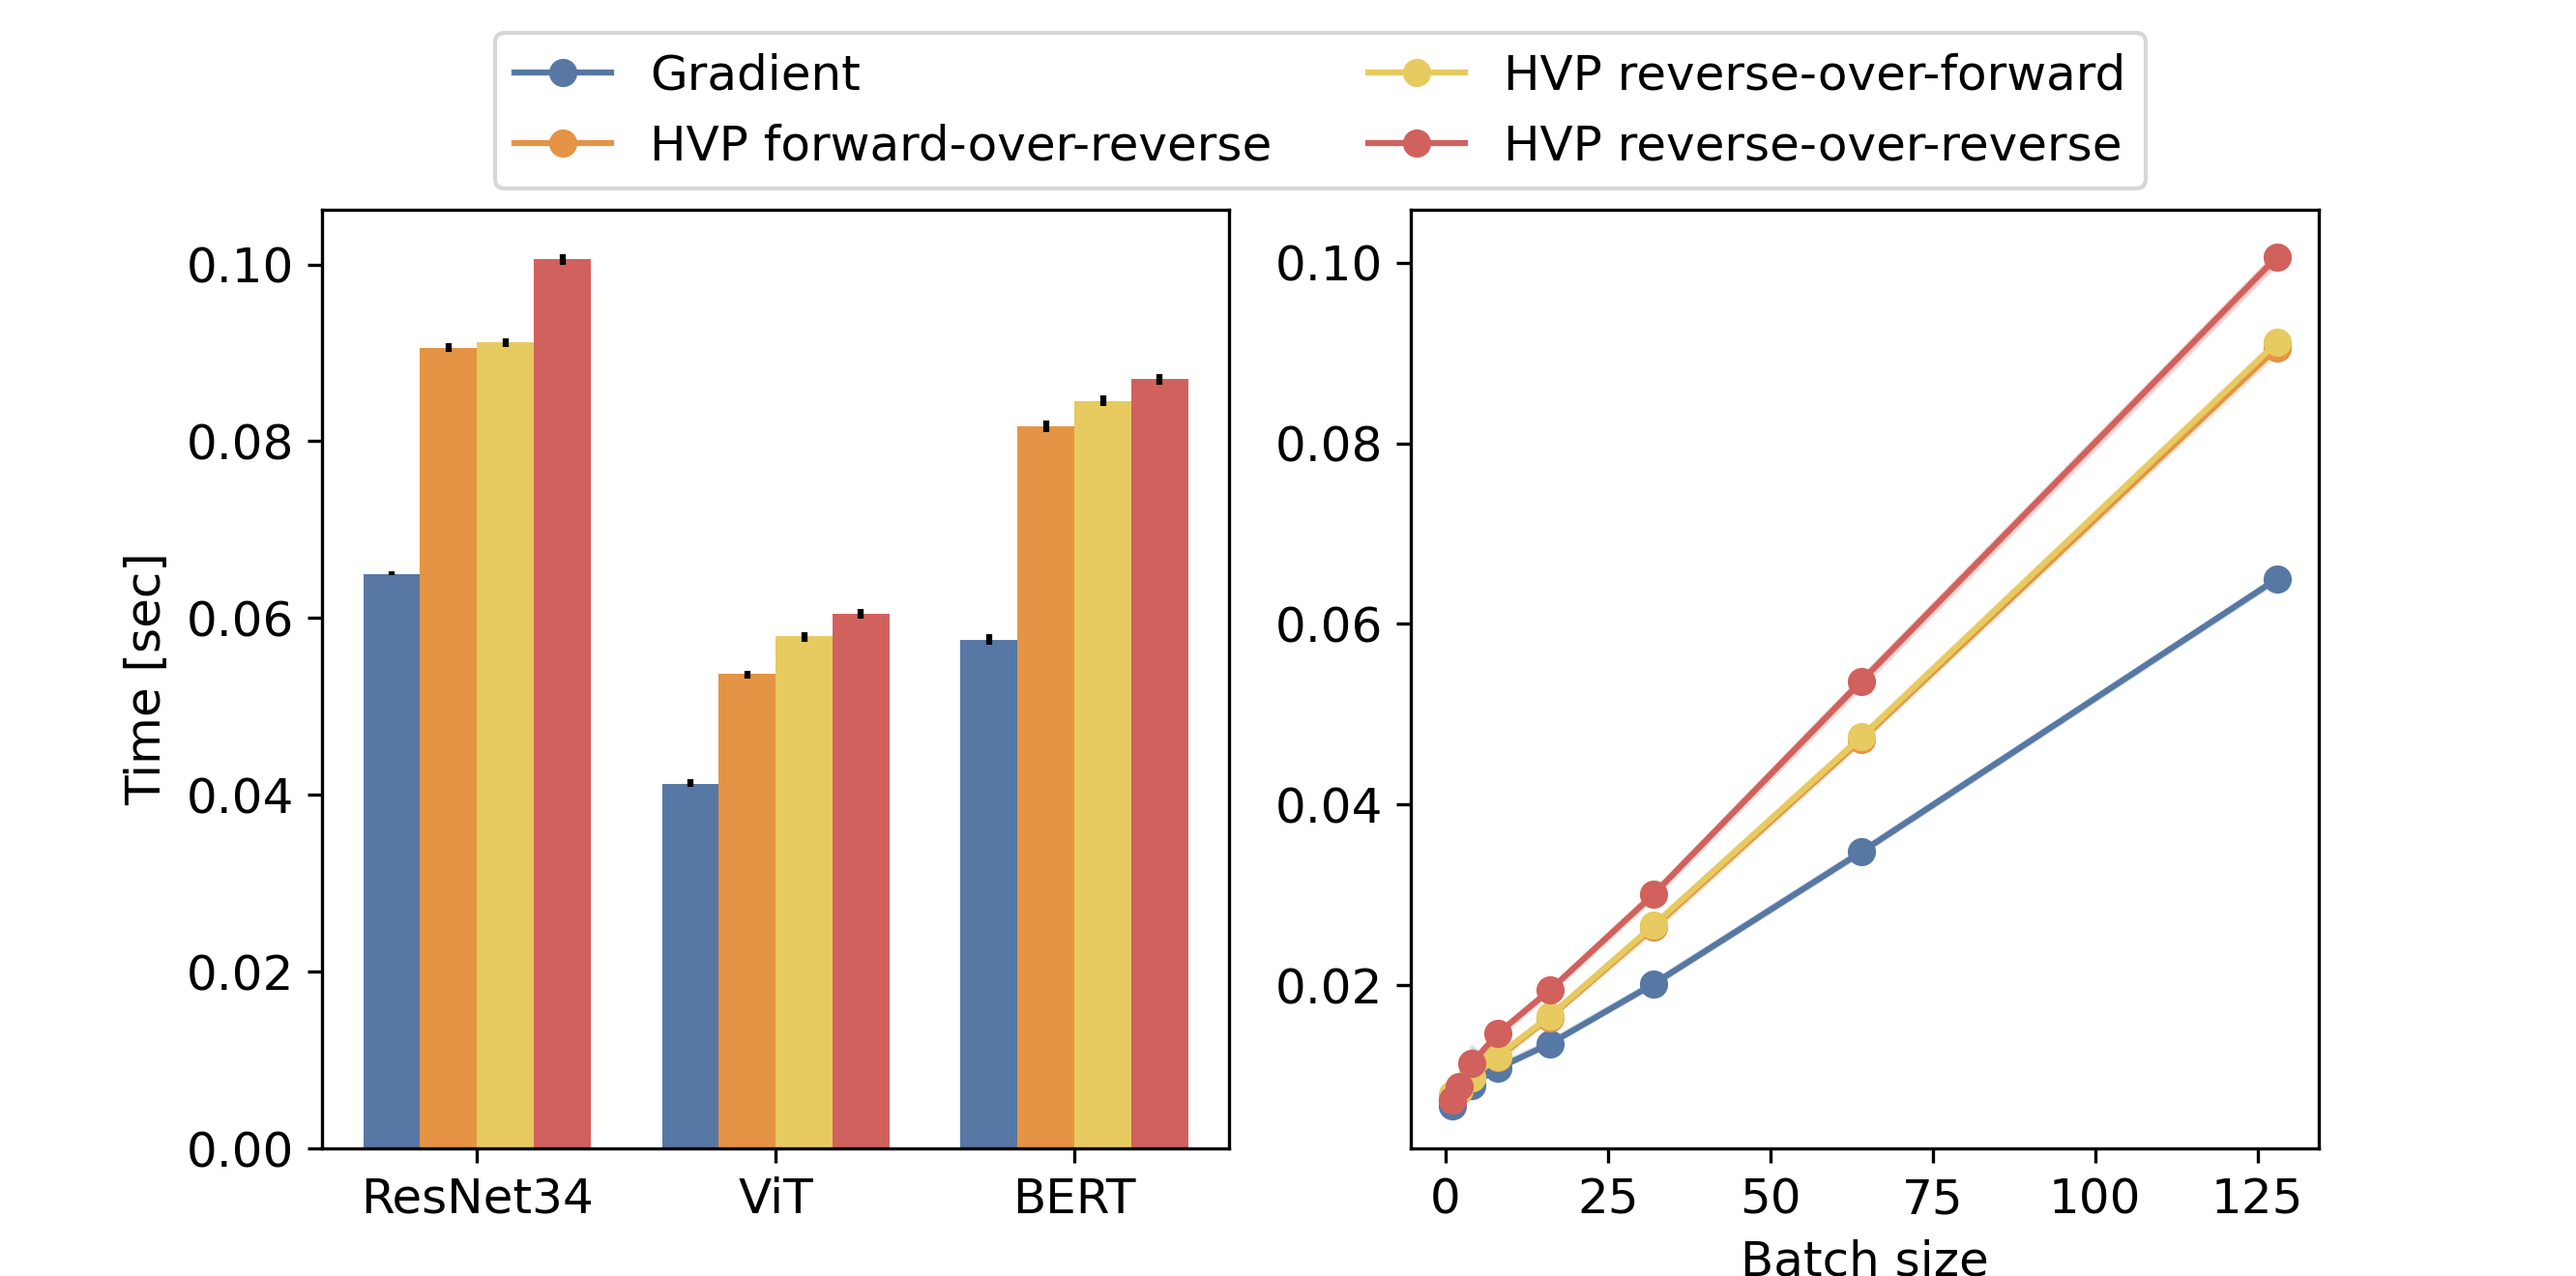
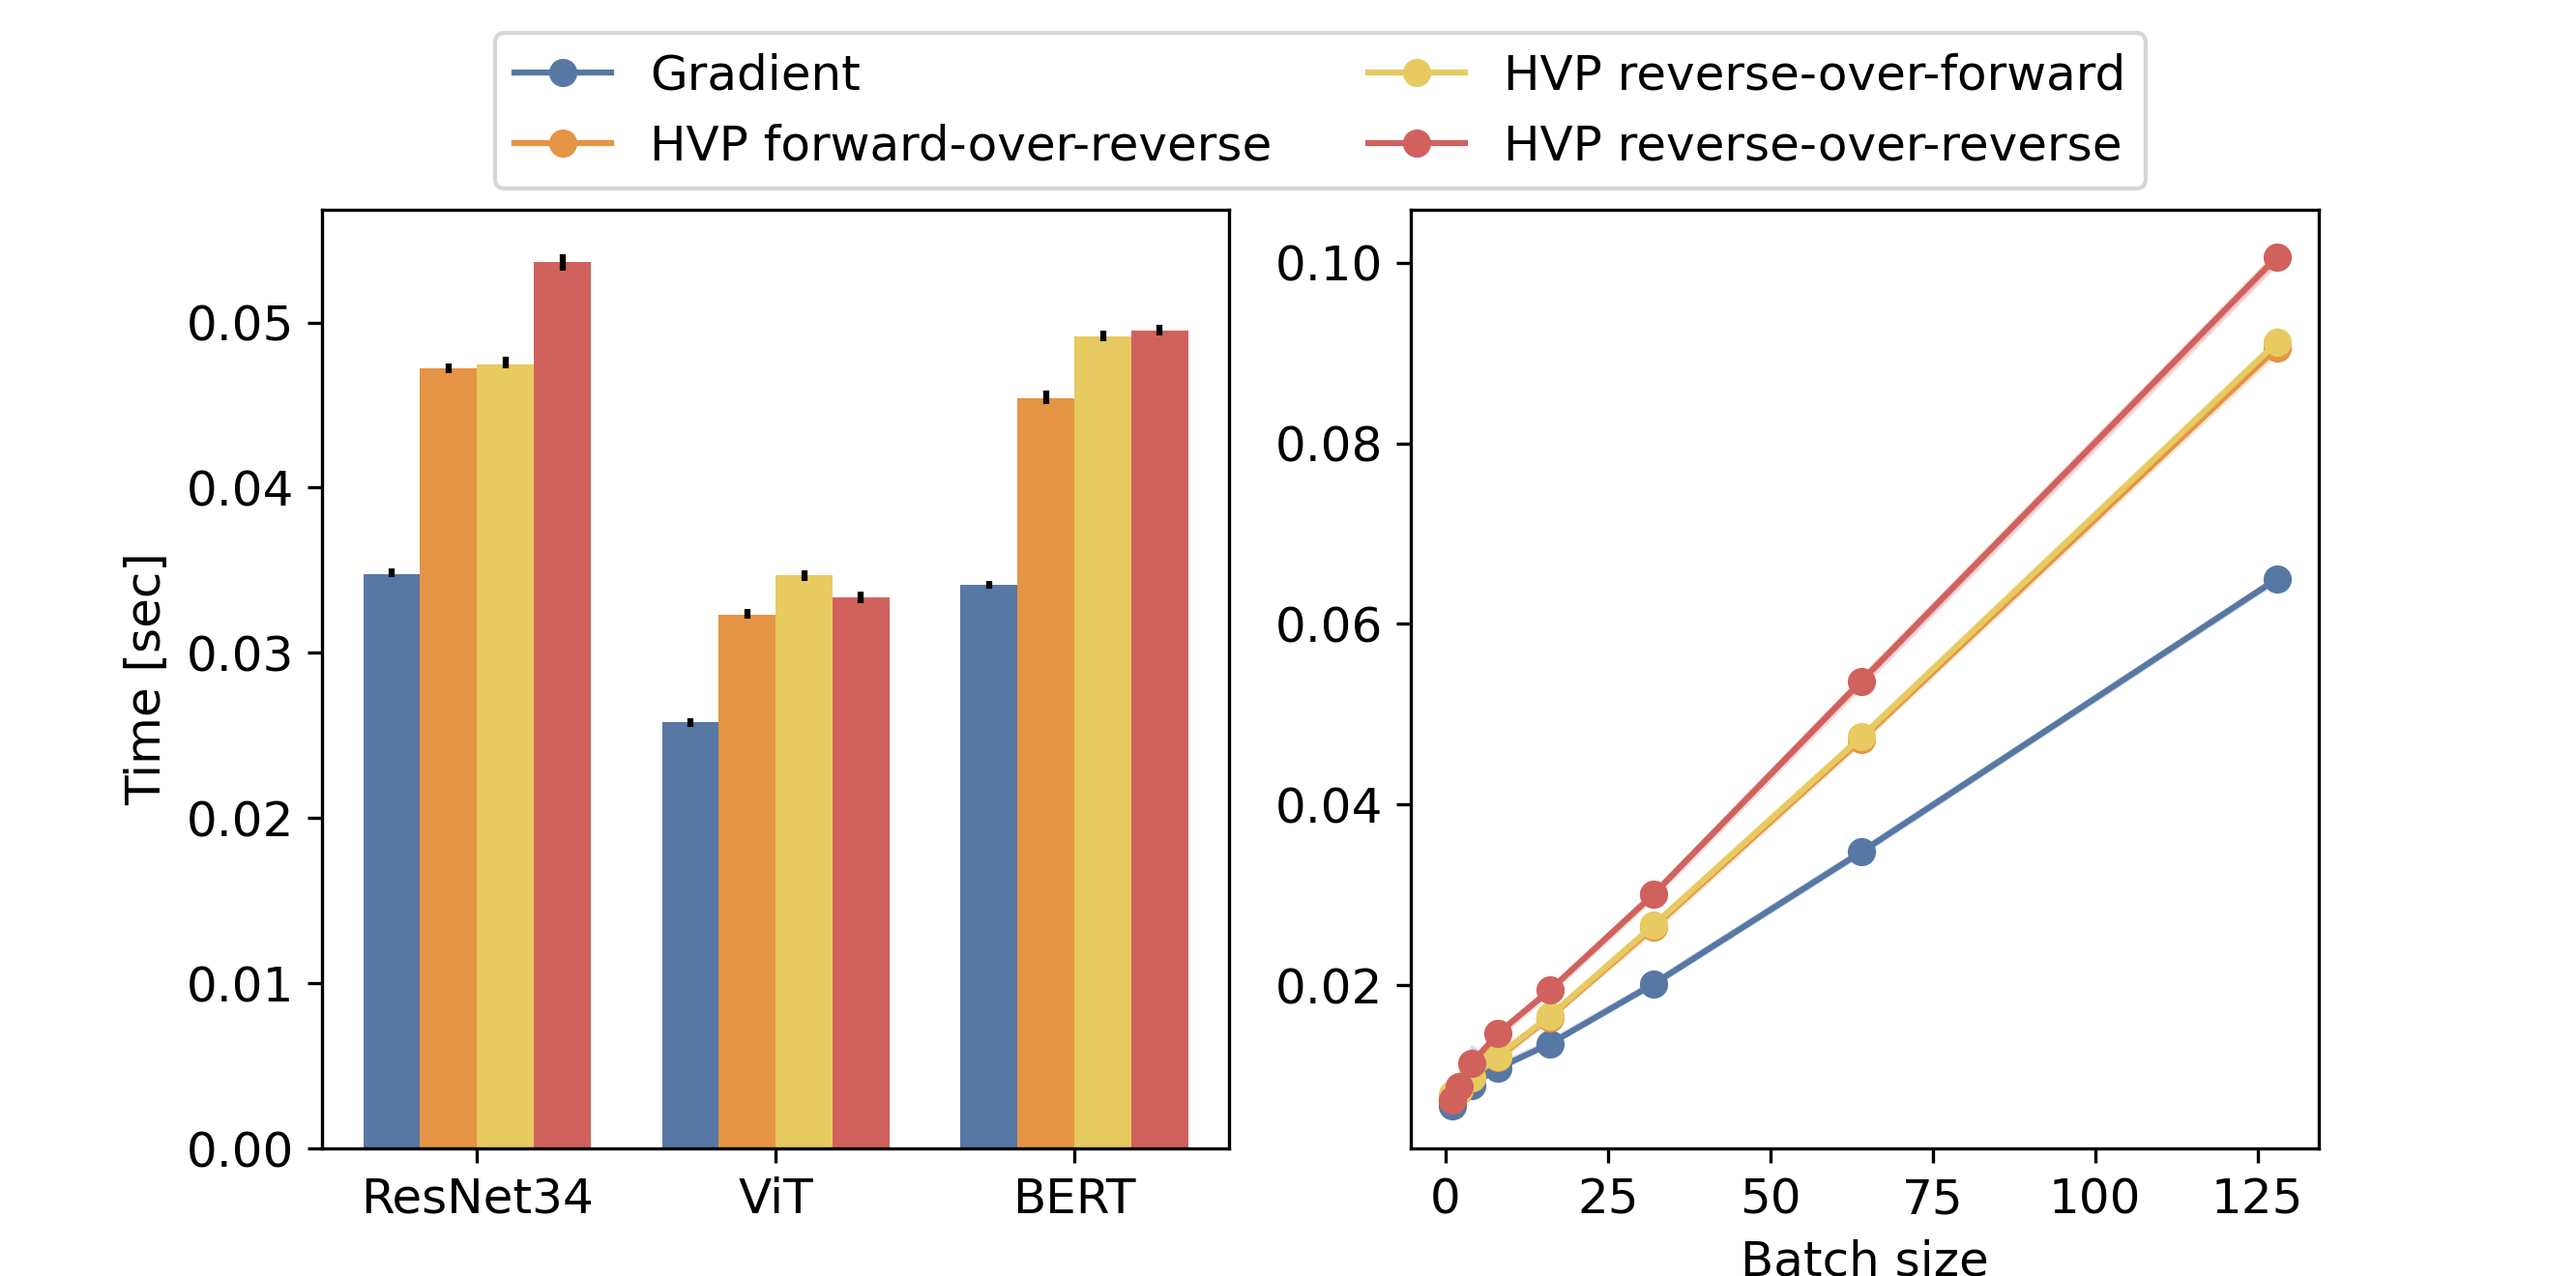
FIX memory

diff --git a/bench_hvp/bench_hvp_memory.py b/bench_hvp/bench_hvp_memory.py
@@ -3,6 +3,9 @@ import pandas as pd
 
 from memory_monitor import GPUMemoryMonitor
 
+from transformers.utils import logging
+
+logging.set_verbosity_error()
 
 try:
     import utils_jax
@@ -50,6 +53,7 @@ if __name__ == '__main__':
     parser = argparse.ArgumentParser()
     parser.add_argument('--framework', '-f', type=str, default='jax',
                         choices=['jax', 'torch'])
+    parser.add_argument('--jit', '-j', type=str, default="activate")
     parser.add_argument('--fun', type=str, default='grad',
                         choices=['grad', 'hvp_forward_over_reverse',
                                  'hvp_reverse_over_forward',
@@ -58,11 +62,20 @@ if __name__ == '__main__':
     parser.add_argument('--batch_size', '-b', type=int, default=16)
 
     framework = parser.parse_args().framework
+    jit_fun = parser.parse_args().jit == "activate"
     fun_name = parser.parse_args().fun
     model_name = parser.parse_args().model
     batch_size = parser.parse_args().batch_size
     model_list = [k for k in MODEL_DICT.keys()
                   if MODEL_DICT[k]['framework'] == framework]
+
+    jax_and_no_jit = framework == "jax" and not jit_fun
+    if jax_and_no_jit:
+        from jax.config import config
+        config.update('jax_disable_jit', True)
+        path_out = '../outputs/bench_hvp_memory_jax_without_jit.parquet'
+    else:
+        path_out = f'../outputs/bench_hvp_memory_{framework}.parquet'
 
     print(f'Running {fun_name} on {model_name} ' +
           f'with batch size {batch_size}.')
@@ -70,19 +83,19 @@ if __name__ == '__main__':
     memory = run_one(fun_name, model_name, batch_size)
     memory /= 1024**2
     print(f"Peak memory usage: {memory:.2f} MiB")
-    if os.path.exists(f'../outputs/bench_hvp_memory_{framework}.parquet'):
-        df = pd.read_parquet(
-            f'../outputs/bench_hvp_memory_{framework}.parquet'
-        )
+    if os.path.exists(path_out):
+        df = pd.read_parquet(path_out)
         df.loc[
-            (model_name.split('_')[0], fun_name, batch_size), 'memory'
+            (model_name.split('_')[0], fun_name, batch_size, framework),
+            'memory'
         ] = memory
     else:
         df = pd.DataFrame(dict(
             model=[model_name.split('_')[0]],
             fun=[fun_name],
             batch_size=[batch_size],
-            memory=[memory]
-        )).set_index(['model', 'fun', 'batch_size'])
+            memory=[memory],
+            framework=[framework]
+        )).set_index(['model', 'fun', 'batch_size', 'framework'])
 
-    df.to_parquet(f'../outputs/bench_hvp_memory_{framework}.parquet')
+    df.to_parquet(path_out)

diff --git a/figures/plot_bench_memory.py b/figures/plot_bench_memory.py
@@ -13,9 +13,9 @@ filename = parser.parse_args().file
 LEGEND_INSIDE = True
 LEGEND_RATIO = 0.1
 DEFAULT_WIDTH = 8
-DEFAULT_HEIGHT = 6
+DEFAULT_HEIGHT = 4
 
-fontsize = 7
+fontsize = 12
 
 STYLES = dict(
     grad=dict(label='Gradient', color='#5778a4'),
@@ -29,7 +29,6 @@ STYLES = dict(
 
 
 MODELS = dict(
-    # resnet50=dict(label="ResNet50", color="#ffe6e6", ord=1),
     resnet34=dict(label="ResNet34", color="#ffe6e6", ord=1),
     bert=dict(label="BERT", color="#defcce", ord=2),
     vit=dict(label="ViT", color="#fcf8c1", ord=3),
@@ -38,11 +37,11 @@ MODELS = dict(
 FUN = "hvp_forward_over_reverse"
 
 mpl.rcParams.update({
-    'font.size': 10,
-    'legend.fontsize': 'small',
-    'axes.labelsize': 'small',
-    'xtick.labelsize': 'small',
-    'ytick.labelsize': 'small'
+    'font.size': fontsize,
+    'legend.fontsize': fontsize,
+    'axes.labelsize': fontsize,
+    'xtick.labelsize': fontsize,
+    'ytick.labelsize': fontsize
 })
 
 df = (
@@ -53,7 +52,7 @@ models = df['model'].unique()
 funs = df['fun'].unique()
 for model in models:
     df.loc[df['model'] == model, 'ord'] = MODELS[model]['ord']
-
+df.loc[:, 'memory'] = df.loc[:, 'memory'] / 1024
 frameworks = df['framework'].unique()
 frameworks = " / ".join(frameworks)
 
@@ -90,10 +89,10 @@ def filtre_max_batch_size(df, max_batch_sizes):
     return new_df
 
 
-df_max_batch_size = filtre_max_batch_size(df, max_batch_sizes)
+df_batch_size_64 = df.query("batch_size == 64")
 
 for j, fun in enumerate(df['fun'].unique()):
-    to_plot = df_max_batch_size.query("fun == @fun")
+    to_plot = df_batch_size_64.query("fun == @fun")
 
     lines.append(
         ax.bar(
@@ -110,7 +109,7 @@ for j, fun in enumerate(df['fun'].unique()):
         )
     )
 
-ax.set_ylabel('Memory (MB)')
+ax.set_ylabel('Memory [GiB]')
 ax.set_xticks(ticks=x + 1.5*width,
               labels=[MODELS[m]['label'] for m in models],
               fontsize=fontsize)
@@ -136,11 +135,11 @@ for fun in funs:
 
 
 ax.set_xlabel('Batch size')
-ax.set_ylabel('Memory (MB)')
 ax_legend = fig.add_subplot(gs[0, :])
 ax_legend.set_axis_off()
-ax_legend.legend(handles=lines, loc='center', ncol=4, fontsize=fontsize)
+ax_legend.legend(handles=lines, loc='center', ncol=2, fontsize=fontsize)
 
-fig.suptitle(frameworks)
-
-plt.savefig(f'bench_hvp_memory_{frameworks}.png', dpi=300)
+if "without" in filename:
+    plt.savefig(f'bench_hvp_memory_{frameworks}_without_jit.png', dpi=300)
+else:
+    plt.savefig(f'bench_hvp_memory_{frameworks}.png', dpi=300)

diff --git a/figures/plot_bench_time.py b/figures/plot_bench_time.py
@@ -89,11 +89,11 @@ def filtre_max_batch_size(df, max_batch_sizes):
     return new_df
 
 
-df_max_batch_size = filtre_max_batch_size(df, max_batch_sizes)
+df_batch_size_64 = df.query("batch_size == 64")
 
 for j, fun in enumerate(df['fun'].unique()):
     to_plot = (
-        df_max_batch_size.query("fun == @fun")
+        df_batch_size_64.query("fun == @fun")
         .groupby(['model'])
         .quantile([0.2, 0.5, 0.8], numeric_only=True)
         .unstack().sort_values(by=('ord', 0.5))

diff --git a/README.md b/README.md
@@ -1,1 +1,13 @@
 # Benchmark Hessian-vector product
+
+```bash
+$ conda activate bench_hvp_jax
+$ python bench_hvp_jax -f jax -n 90
+```
+![alt text](https://github.com/MatDag/bench_hvp/blob/main/figures/bench_hvp_time_jax.pdf)
+
+```bash
+$ conda activate bench_hvp_torch
+$ python bench_hvp_jax -f torch -n 90
+```
+![alt text](https://github.com/MatDag/bench_hvp/blob/main/figures/bench_hvp_time_torch.pdf)
